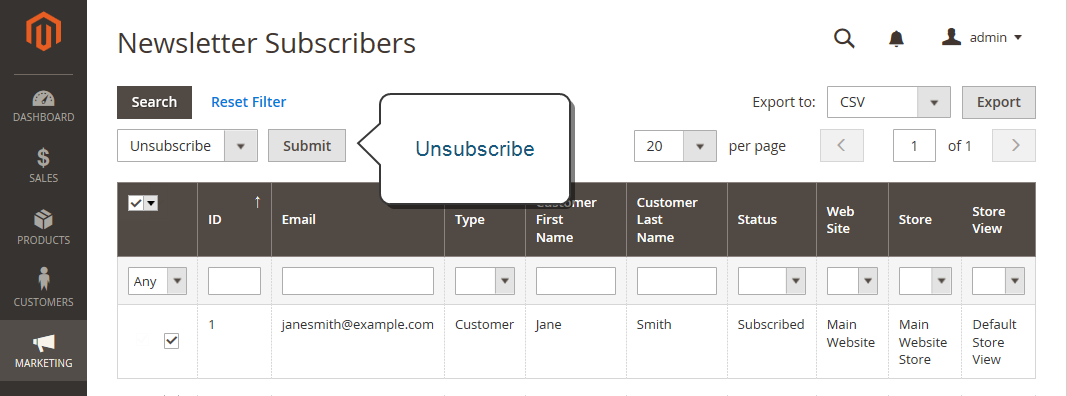
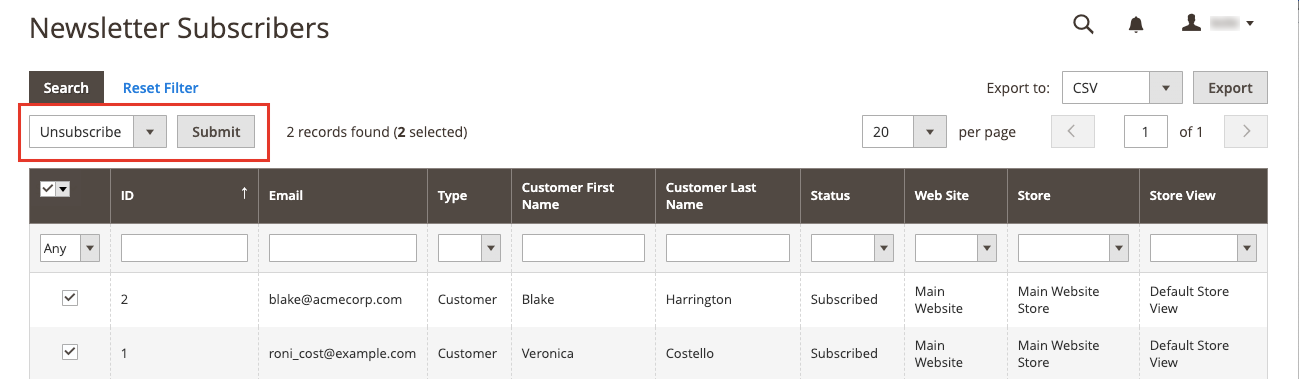
Updates for newsletter subscription management

diff --git a/src/marketing/newsletter-subscribers.md b/src/marketing/newsletter-subscribers.md
@@ -4,31 +4,66 @@ title: Managing Subscribers
 
 As a best practice you should manage your subscription list on a regular basis, and make sure to process any requests to unsubscribe. In some jurisdictions, it is required by law that requests to unsubscribe are processed within a specific period of time.
 
+You can easily manage your subscribers using a simple list of active subscriptions. When a customer submits an unsubscribe request, you can simply apply an unsubscribe action to one or more selected subscriptions.
+
+In single site setups with multiple store views, a customer account subscription can be associated with a specific store view.
+
+In multi-store and multi-site setups with a global [customer account scope]({% link customers/account-scope.md %}), a customer account can be subscribed to newsletters for multiple sites/stores. In this case, you may want to edit the customer account to manage a group of subscriptions or cancel a subscription for a specific site/store to honor a request.
+
 If you want to use a third-party service to send newsletters, you can export your subscription list as a CSV or XML file.
 
-## Cancel a Subscription
+## Manage subscriptions for a customer
+
+1. On the _Admin_ sidebar, go to **Customers** > **All Customers**.
+
+1. Find the customer in the grid and click **Edit** in the _Action_ column.
+
+1. Click **Newsletter** in the left panel.
+
+1. Modify the subscription(s) for the customer according to your site/store setup:
+
+   For a single site/single store setup, you can simply select or clear the **Subscribed to Newsletter** checkbox.
+
+   ![Single store customer newsletter subscription checkbox]({% link images/images/newsletter-customer-single-store.png %}){: .zoom}
+   _Customer Newsletter subscription - Single Store Setup_
+
+   For a single site/multi-store setup, you can select or clear the **Subscribed to Newsletter** checkbox and set **Subscribed on Store View** to the correct store view for the subscription.
+
+   ![Multi-store customer newsletter subscription checkbox and store view selector]({% link images/images/newsletter-customer-multi-store.png %}){: .zoom}
+   _Customer Newsletter subscription - Multi-Store Setup_
+
+   For a multi-site/multi-store setup with a global customer account scope, the page displays the subscription status for all sites. You can select or clear the **Subscribed** checkbox and/or change the **Store View** for the subscription.
+
+   ![Multi-site customer newsletter subscription checkboxes and store view selectors]({% link images/images/newsletter-customer-multi-site.png %}){: .zoom}
+   _Customer Newsletter subscription - Multi-Site Setup_
+
+1. Click <span class="btn">Save Customer</span>.
+
+## Cancel a subscription from the Newsletter Subscribers list
 
 1. On the _Admin_ sidebar, go to **Marketing** > _Communications_ > **Newsletter Subscribers**.
 
-1. Find the subscriber in the grid and select the checkbox in the first column.
+   For a multi-site setup where some customers have subscriptions for more than one site, each subscription is displayed as a line item in the grid.
 
-1. Set the **Action** control to `Unsubscribe` and click <span class="btn">Submit</span>.
+1. Find the subscription in the grid and select the checkbox in the first column.
 
-    The status of the record changes to `Unsubscribed`.
+1. Set the Action control to **Unsubscribe** and click <span class="btn">Submit</span>.
 
-    ![Unsubscribe newsletter]({% link images/images/newsletter-unsubscribe.png %}){: .zoom}
-    _Unsubscribe_
+   ![Unsubscribe newsletter]({% link images/images/newsletter-unsubscribe.png %}){: .zoom}
+   _Unsubscribe_
 
-## Export the List of Subscribers
+   The status of the record changes to `Unsubscribed`.
 
-1. From the Newsletter Subscribers list, use the filter controls to include only records with a **Status** of `Subscribed` and for the appropriate website, store, or store view.
+## Export the list of subscribers
+
+1. From the _Newsletter Subscribers_ list, use the filter controls to include only records with a _Status_ of `Subscribed` and for the appropriate website, store, or store view.
 
 1. Set the **Export to** control to one of the following:
 
-    - `CSV`
-    - `XML`
+   - `CSV`
+   - `XML`
 
 1. Click <span class="btn">Export</span>. Then, look for the prompt at the bottom of the screen and save the file.
 
-    ![Export newsletter subscribers]({% link images/images/newsletter-subscribers-export.png %}){: .zoom}
-    _Export Newsletter Subscribers_
+   ![Export newsletter subscribers]({% link images/images/newsletter-subscribers-export.png %}){: .zoom}
+   _Export Newsletter Subscribers_

diff --git a/src/customers/customer-account-manage.md b/src/customers/customer-account-manage.md
@@ -41,15 +41,23 @@ Customers with inactive accounts cannot log in or make purchases from their acco
 
 ### Subscribe to newsletter
 
-1. Set the **Actions** control to `Subscribe to newsletter`.
+{:.bs-callout-info}
+In multi-store and multi-site setups with a global [customer account scope]({% link customers/account-scope.md %}), a customer account can be subscribed to newsletters multiple sites/stores. If you apply the Subscribe action to a customer account, it activates the newsletter subscription for the default site/store view only.
 
-1. When prompted to confirm, click <span class="btn">OK</span>.
+- Set the **Actions** control to `Subscribe to newsletter`.
+
+See [Managing Subscribers]({% link marketing/newsletter-subscribers.md %}) for more information about managing newsletter subscriptions for a customer.
 
 ### Unsubscribe from newsletter
+
+{:.bs-callout-warning}
+In multi-store and multi-site setups with a global [customer account scope]({% link customers/account-scope.md %}), a customer account can be subscribed to newsletters for multiple sites/stores. If you apply the Unsubscribe action to a customer account, all active subscriptions will be unsubscribed.
 
 1. Set the **Actions** control to `Unsubscribe to newsletter`.
 
 1. When prompted to confirm, click <span class="btn">OK</span>.
+
+See [Managing Subscribers]({% link marketing/newsletter-subscribers.md %}) for more information about managing newsletter subscriptions for a customer.
 
 ### Assign a customer group
 
@@ -96,6 +104,7 @@ Customers with inactive accounts cannot log in or make purchases from their acco
 
 ## Actions/controls
 
+{: .fields-table }
 |Option|Description|
 |--- |--- |
 |Delete|Deletes selected customer accounts. If the customer account belongs to a company administrator for a B2B store, another company user must be assigned as admin before the customer account can be deleted.|
@@ -108,6 +117,7 @@ Customers with inactive accounts cannot log in or make purchases from their acco
 
 ## Columns
 
+{: .fields-table }
 |Column|Description|
 |--- |--- |
 |Select|Manages the checkbox selections for the customer records for applying an action. You can also use the selection control in the column header to select/deselect all.|
@@ -132,6 +142,7 @@ Customers with inactive accounts cannot log in or make purchases from their acco
 
 These columns are available by changing the [column layout]({% link stores/admin-grid-layout.md %}) of the grid.
 
+{: .fields-table }
 |Company|The company name of the customer.|
 |Street Address|The street address of the customer.|
 |City|The city where the customer is located.|
@@ -142,3 +153,12 @@ These columns are available by changing the [column layout]({% link stores/admin
 |Shipping Address|The address where orders are to be shipped.|
 |VAT Number|The value-added tax number that is associated with the customer address. For [digital goods]({% link tax/eu-place-of-supply.md %}) sold in the EU, the VAT is based on the billing address of the customer. <br/><br/>**_Note:_** This field is not the same as the Tax/VAT Number.|
 |Account Lock|Indicates the status of the account. As a security measure, customer accounts can be [locked]({% link customers/password-options.md %}) after too many login attempts. Values: Locked / Unlocked|
+
+<!--
+  This is a style declaration so that long field names are not wrapped by table auto styling for column widths.
+-->
+<style>
+.fields-table td:first-of-type {
+  width: 200px;
+}
+</style>

diff --git a/src/marketing/newsletter-configuration.md b/src/marketing/newsletter-configuration.md
@@ -2,18 +2,20 @@
 title: Configuring Newsletters
 ---
 
-The first step in creating newsletters is to configure the newsletter settings for your site. You can require customers to click a confirmation link that is sent by email to confirm the subscription. This double opt-in, method requires customers to confirm twice that they want to receive your newsletter, and reduces the possibility that it might be considered to be spam.
+The first step in creating newsletters is to configure the newsletter settings for your site. You can require customers to click a confirmation link that is sent by email to confirm the subscription. This double opt-in method requires customers to confirm twice that they want to receive your newsletter, and reduces the possibility that it might be considered to be spam.
 
-## Configure Subscription Options
+## Configure the subscription options
 
 1. On the _Admin_ sidebar, go to **Stores** > _Settings_ > **Configuration**.
 
 1. In the left panel, expand **Customers** and choose **Newsletter**.
 
-1. If necessary, expand ![Expansion selector]({% link images/images/btn-expand.png %}) the **Subscription Options** section. Then, do the following:
+1. If needed, [change the configuration scope]({% link configuration/scope-change.md %}) to apply the newsletter configuration changes to a specific site/store view.
 
-    ![Customers configuration - newsletter subscriptions]({% link images/images/config-customers-newsletter-subscription-options.png %}){: .zoom}
-    [_Subscription Options_]({% link configuration/customers.md -%})
+1. Expand ![Expansion selector]({% link images/images/btn-expand.png %}) the **Subscription Options** section and do the following:
+
+   ![Customers configuration - newsletter subscriptions]({% link images/images/config-customers-newsletter-subscription-options.png %}){: .zoom}
+   [_Subscription Options_]({% link configuration/customers.md -%})
 
    - Confirm the email template and sender of the each of the following email messages that are sent to subscribers:
 

diff --git a/src/configuration/customers/newsletter.md b/src/configuration/customers/newsletter.md
@@ -4,6 +4,15 @@ title: Newsletter
 
 Stores > Settings > [Configuration]({% link stores/configuration.md %}) > [Customers]({% link configuration/customers.md %}) >  Newsletter
 
+## General Options
+
+![]({% link images/images/config-customers-newsletter-general-options.png %}){: .zoom}
+_General Options_
+
+|Field|[Scope]({% link configuration/scope.md %})|Description|
+|--- |--- |--- |
+|Enabled|Store View|Determines if newsletters are enabled for the store view scope. Options: Yes / No|
+
 ## Subscription Options
 
 ![]({% link images/images/config-customers-newsletter-subscription-options.png %}){: .zoom}
@@ -19,4 +28,3 @@ Stores > Settings > [Configuration]({% link stores/configuration.md %}) > [Cust
 |Success Email Template|Store View|Determines the email template used for the notification sent to those who successfully subscribe to a newsletter.  Default template: Newsletter subscription success|
 |Unsubscription Email Sender|Store View|Identifies the store contact that appears as the sender of email sent to those who request to end their newsletter subscription.|
 |Unsubscription Email Template|Store View|Determines the email template used for the notification sent to those who request to end their newsletter subscription.  Default template: Newsletter unsubscription success|
-

diff --git a/src/customers/account-options-new.md b/src/customers/account-options-new.md
@@ -31,4 +31,6 @@ _Create New Account Options_
 
    - Set **Welcome Email** to the template that is used for the Welcome message that is sent after the account is confirmed.
 
+  For detailed information about each of the options available in this configuration option set, see the _Create New Account Options_ [configuration reference]({% link configuration/customers/customer-configuration.md %}#create-new-account-options).
+
 1. When complete, click <span class="btn">Save Config</span>.
